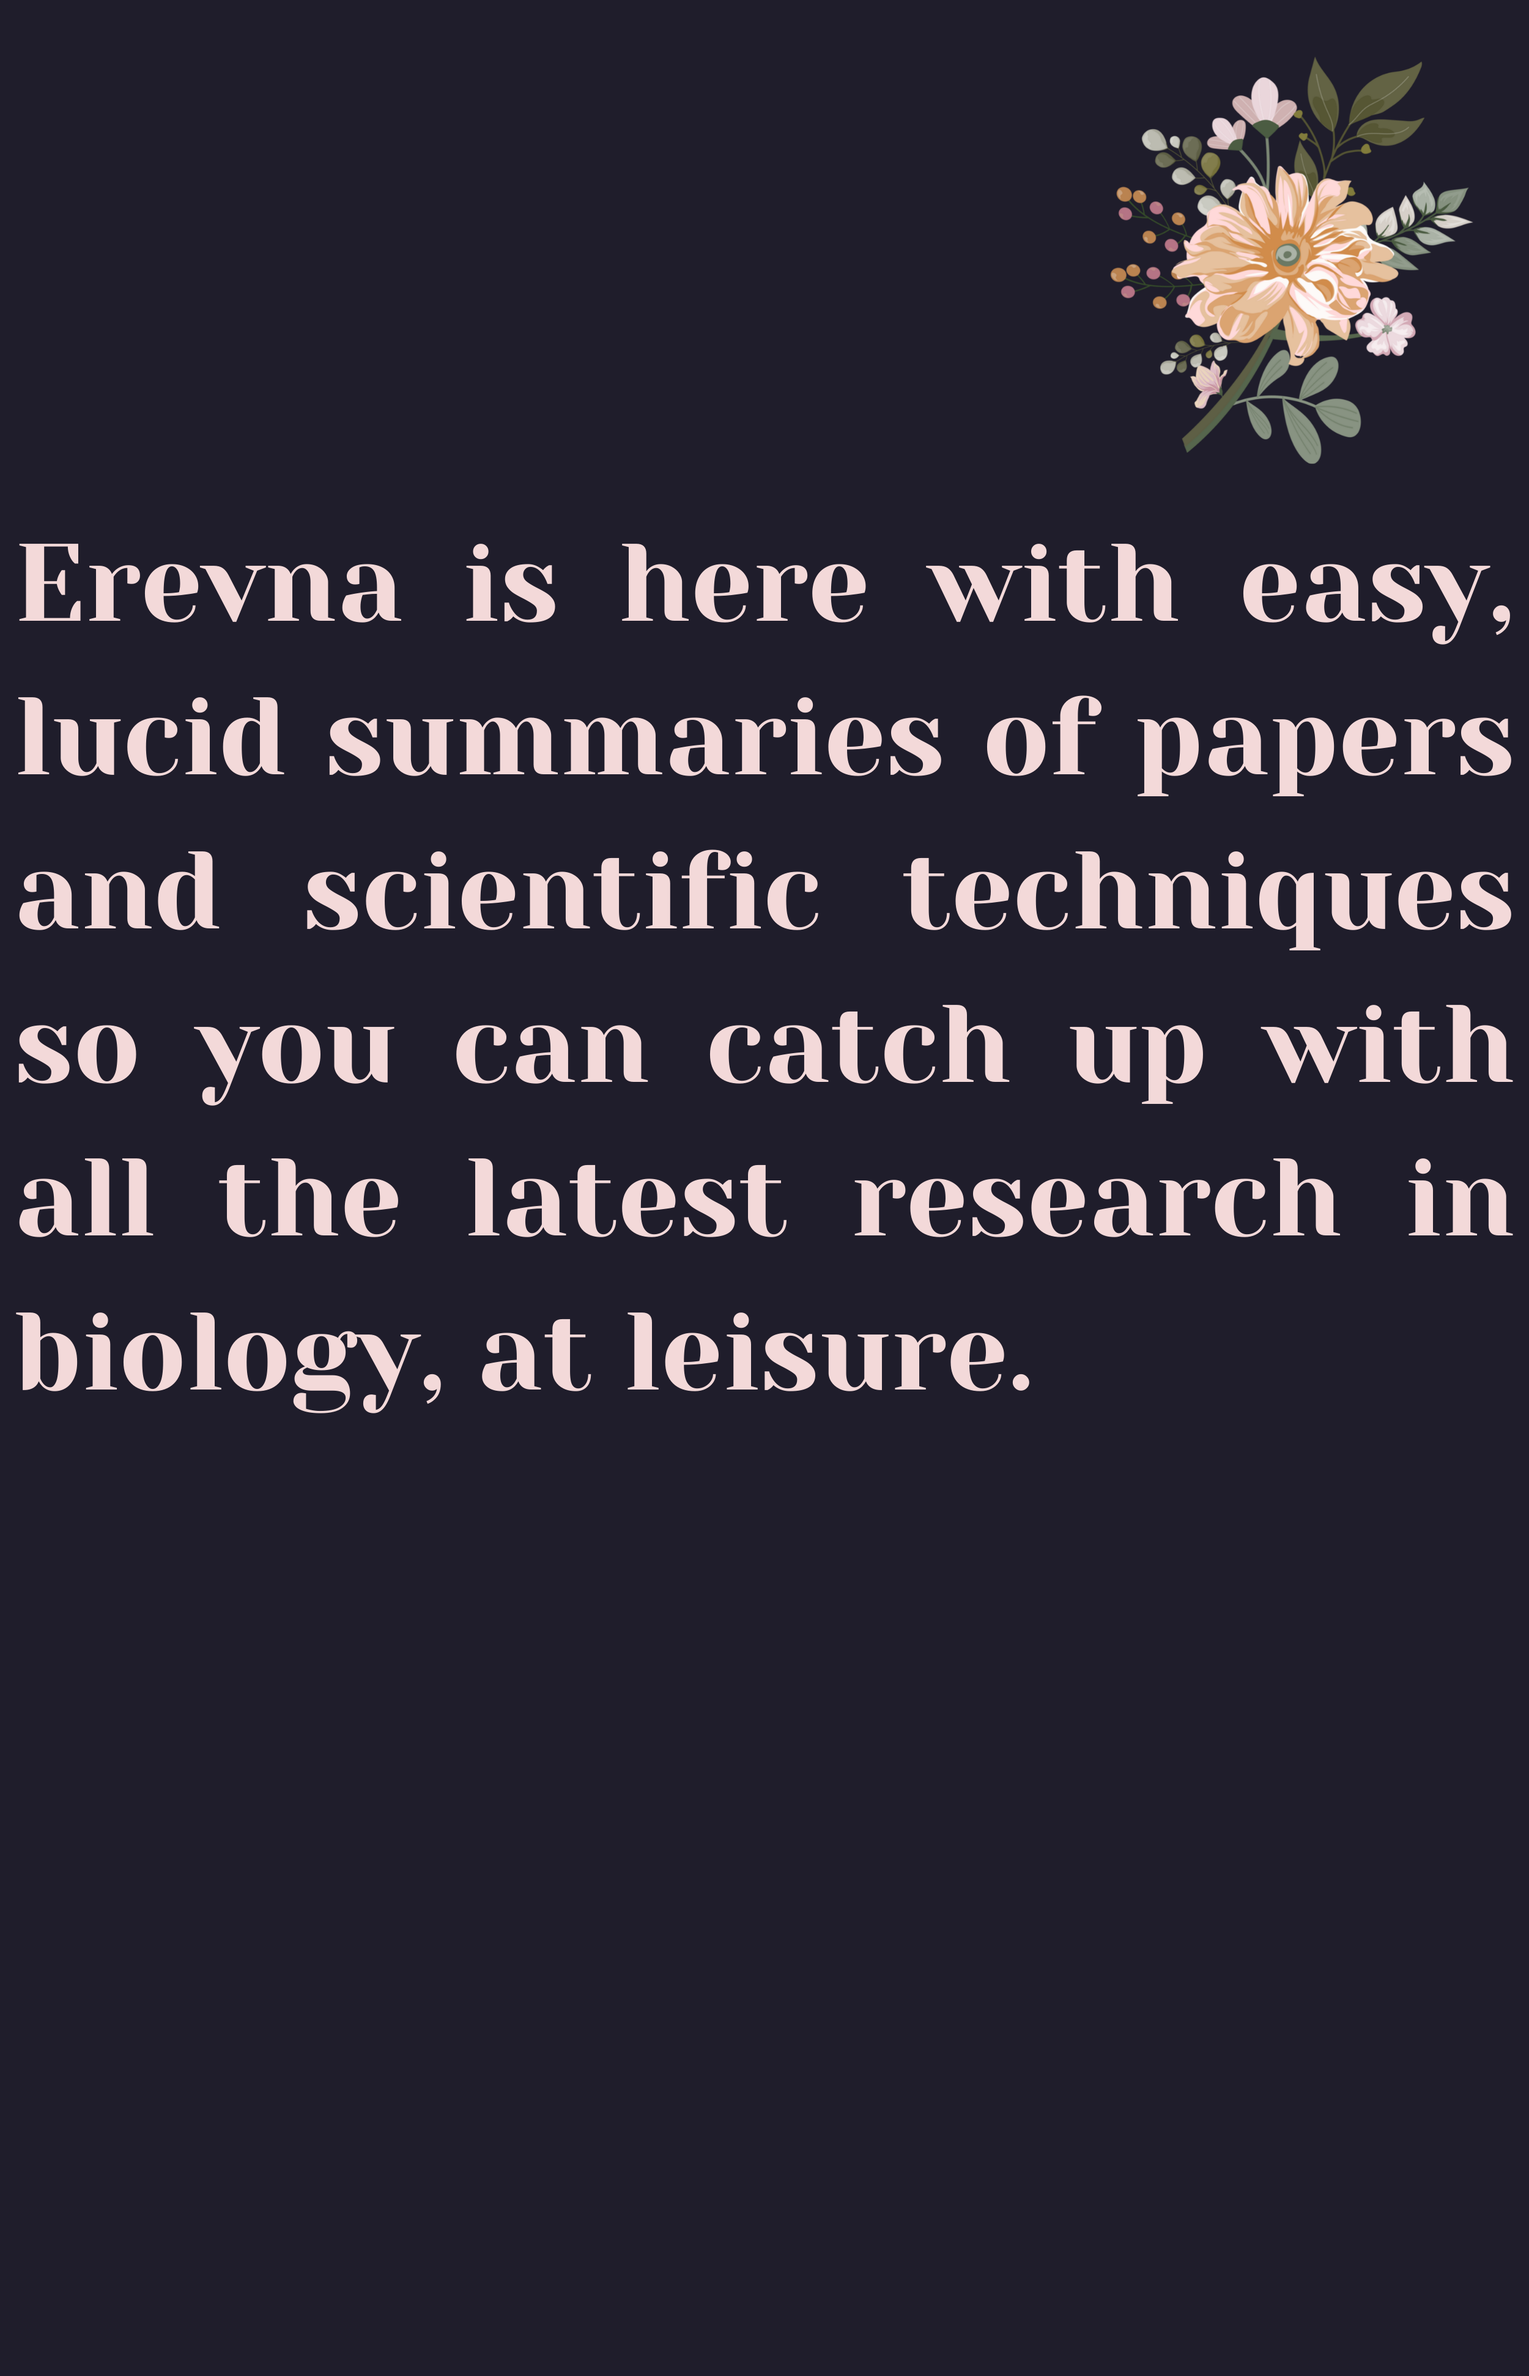
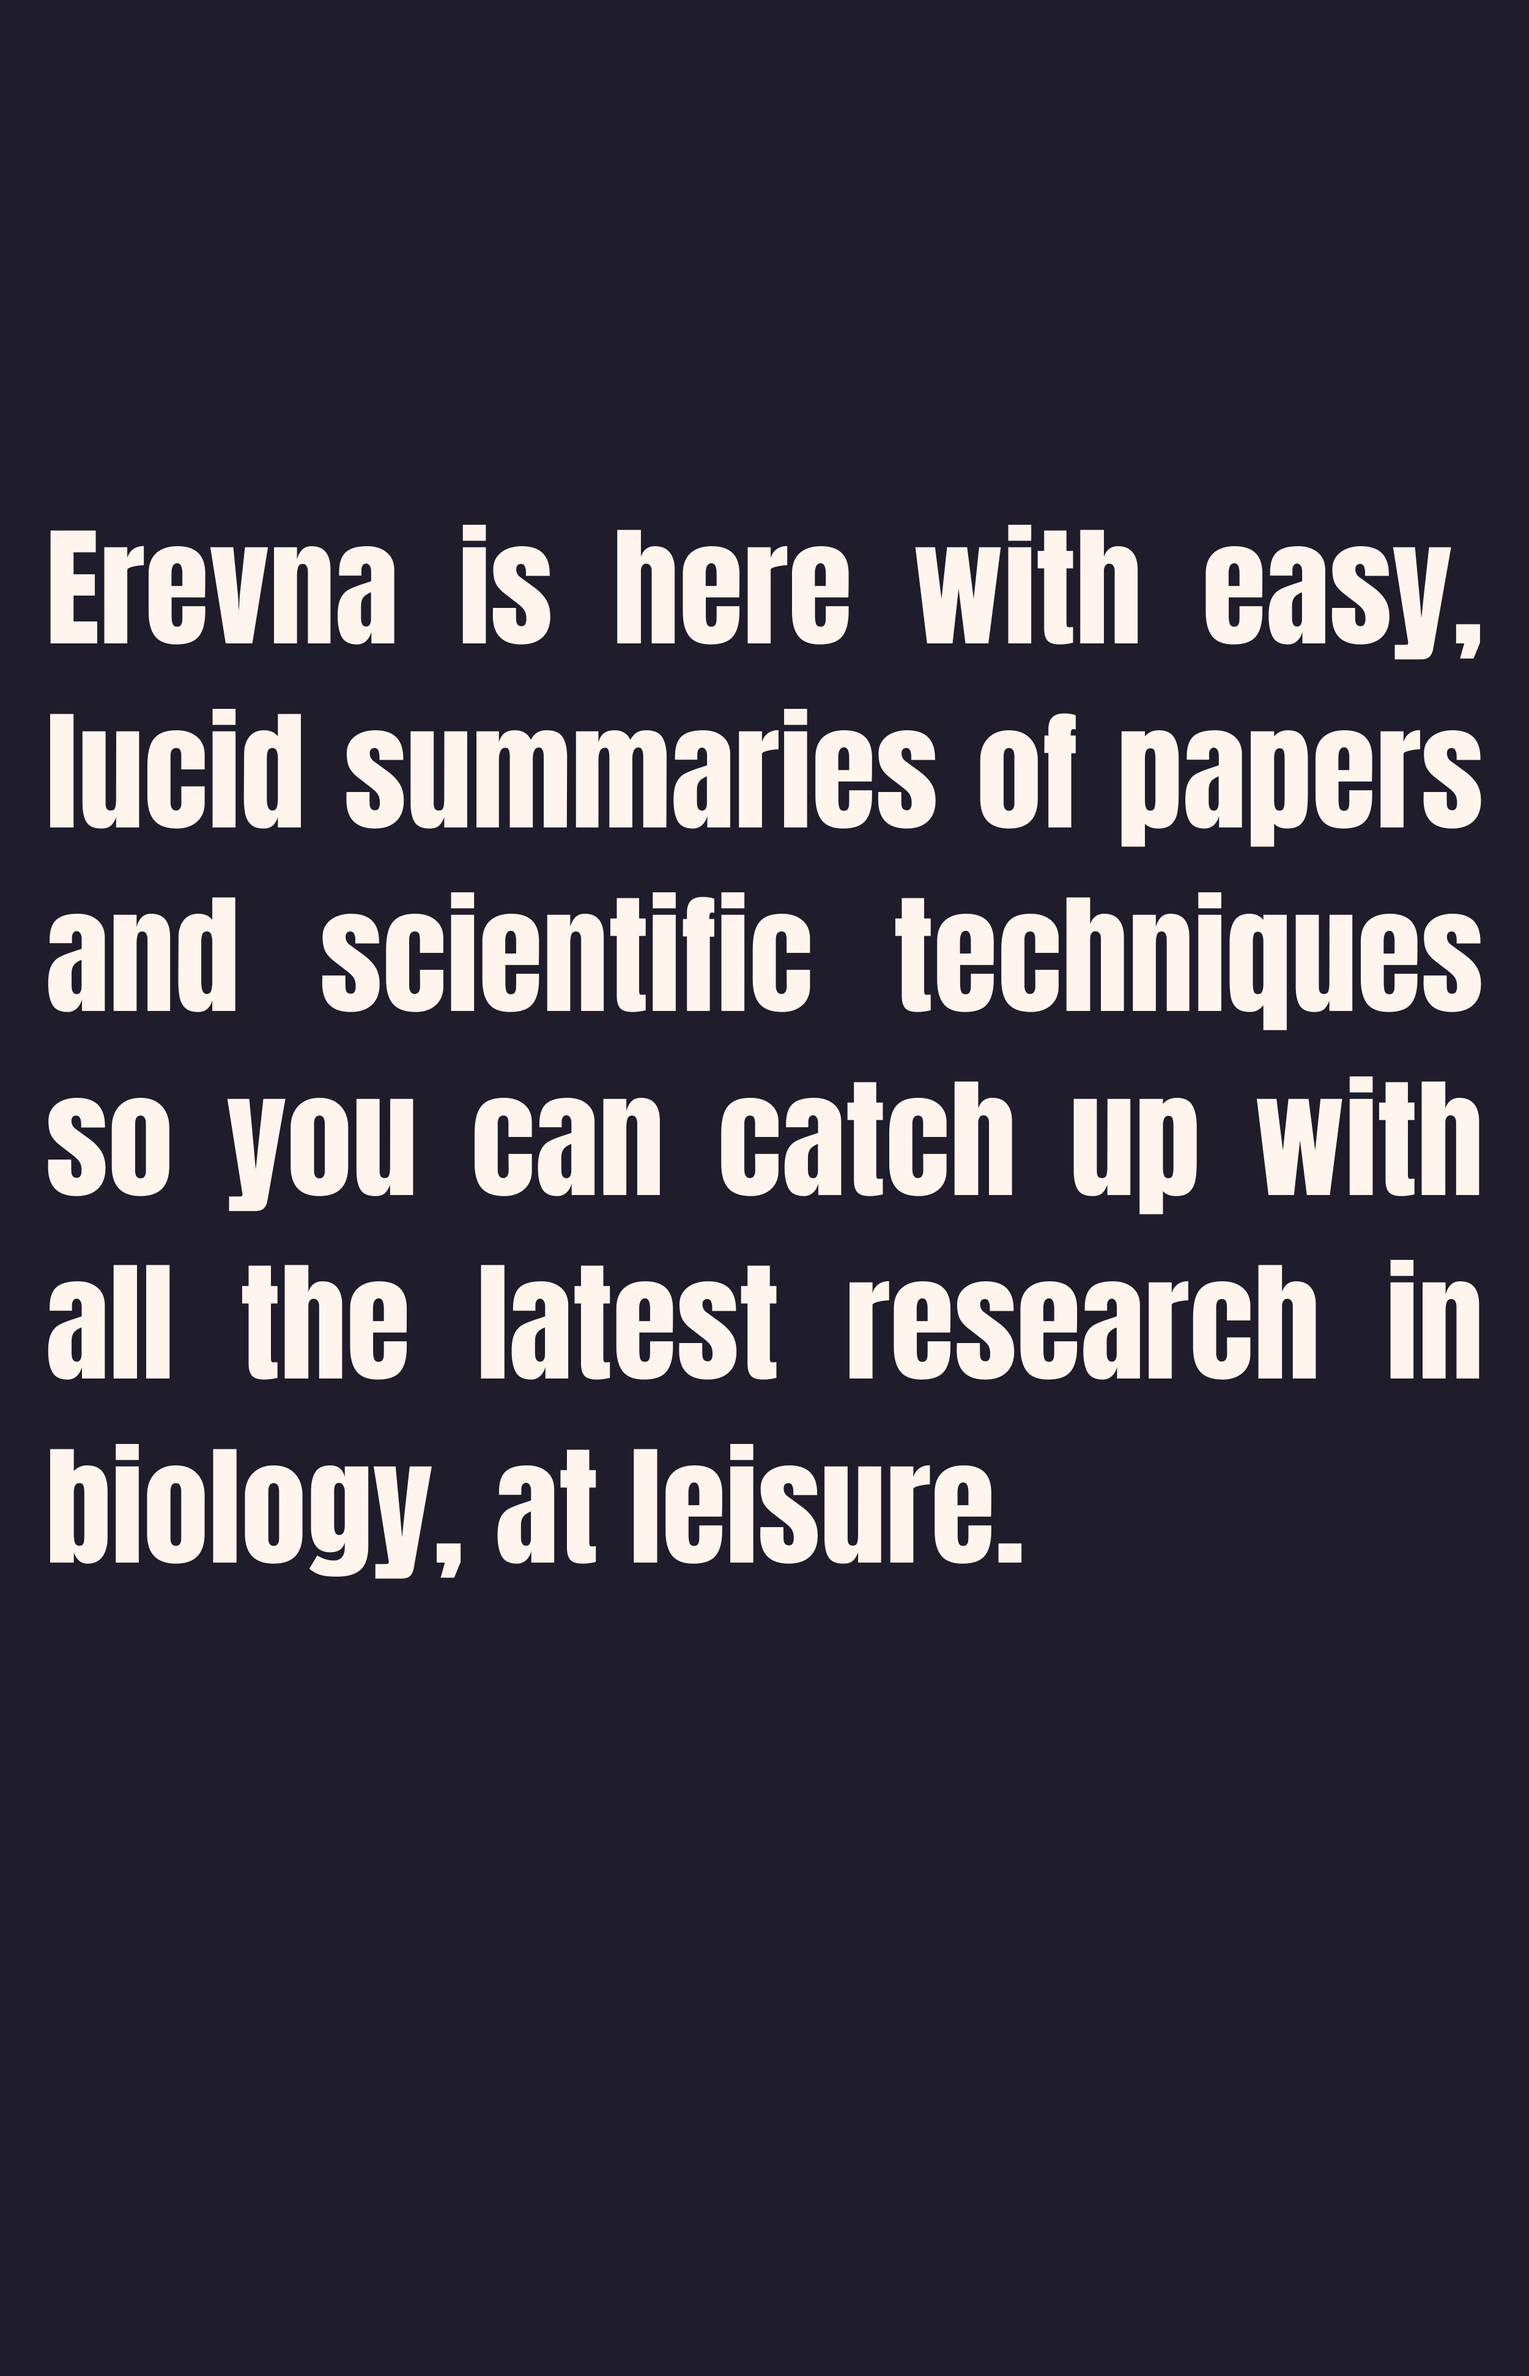
description images

Changed region(s): [[0.0, 0.0311, 0.9984, 0.6852]]

diff --git a/blog-site1/Sciensation.html b/blog-site1/Sciensation.html
@@ -44,7 +44,7 @@
   <div class="sidebar">
    <span class="logo">S</span>
    <!-- <div class="main-header anim" style="--delay: 0s">Series</div> -->
-   <div class="logo-expand" >SERIES</div> 
+   <div class="logo-expand" >SERIES</div>
    <div class="side-wrapper">
     <!-- <div class="side-title">MENU</div> -->
    <div class="side-menu">
@@ -144,13 +144,13 @@
 
     <div class="main-blog anim" style="--delay: .1s">
       <div class="main-blog__author">
-      </div> 
-     </div> 
- 
- 
-     <div class="main-blog anim" style="--delay: .2s">
-      <div class="main-blog__title"><p style= "font-size:15.6px">Biology has a a myriad of beautiful and intriguing facets. Probing some of the bizzare phenomena known to man and the quirks of the seemingly mundane, mosaic weaves an intriguing tapestry.</p></div>
+      </div>
      </div>
+
+
+     <div class="main-blog anim" style="--delay: .2s">
+       <div class="main-blog__title"><img src = "../blog-site1/sciensations_desc.png"></div>
+       </div>
       <!-- weekly changes--->
 
    </div>

diff --git a/blog-site1/Sports_Science.html b/blog-site1/Sports_Science.html
@@ -44,7 +44,7 @@
   <div class="sidebar">
    <span class="logo">S</span>
    <!-- <div class="main-header anim" style="--delay: 0s">Series</div> -->
-   <div class="logo-expand" >SERIES</div> 
+   <div class="logo-expand" >SERIES</div>
    <div class="side-wrapper">
     <!-- <div class="side-title">MENU</div> -->
    <div class="side-menu">
@@ -144,12 +144,12 @@
 
     <div class="main-blog anim" style="--delay: .1s">
       <div class="main-blog__author">
-      </div> 
-     </div> 
- 
- 
+      </div>
+     </div>
+
+
      <div class="main-blog anim" style="--delay: .2s">
-      <div class="main-blog__title"><p style= "font-size:15.6px">Biology has a a myriad of beautiful and intriguing facets. Probing some of the bizzare phenomena known to man and the quirks of the seemingly mundane, mosaic weaves an intriguing tapestry.</p></div>
+       <div class="main-blog__title"><img src = "../blog-site1/sportsscience.png"></div>
      </div>
       <!-- weekly changes--->
 

diff --git a/blog-site1/Anthropoid.html b/blog-site1/Anthropoid.html
@@ -44,7 +44,7 @@
   <div class="sidebar">
    <span class="logo">S</span>
    <!-- <div class="main-header anim" style="--delay: 0s">Series</div> -->
-   <div class="logo-expand" >SERIES</div> 
+   <div class="logo-expand" >SERIES</div>
    <div class="side-wrapper">
     <!-- <div class="side-title">MENU</div> -->
    <div class="side-menu">
@@ -145,12 +145,13 @@
 
     <div class="main-blog anim" style="--delay: .1s">
       <div class="main-blog__author">
-      </div> 
-     </div> 
- 
- 
+      </div>
+     </div>
+
+
      <div class="main-blog anim" style="--delay: .2s">
-      <div class="main-blog__title"><p style= "font-size:15.6px">Biology has a a myriad of beautiful and intriguing facets. Probing some of the bizzare phenomena known to man and the quirks of the seemingly mundane, mosaic weaves an intriguing tapestry.</p></div>
+       <div class="main-blog__title"><img src = "../blog-site1/anthropoid.png"></div>
+
      </div>
       <!-- weekly changes--->
 

diff --git a/blog-site1/Mosaic.html b/blog-site1/Mosaic.html
@@ -44,7 +44,7 @@
   <div class="sidebar">
    <span class="logo">S</span>
    <!-- <div class="main-header anim" style="--delay: 0s">Series</div> -->
-   <div class="logo-expand" >SERIES</div> 
+   <div class="logo-expand" >SERIES</div>
    <div class="side-wrapper">
     <!-- <div class="side-title">MENU</div> -->
    <div class="side-menu">
@@ -143,8 +143,8 @@
 
     <div class="main-blog anim" style="--delay: .1s">
      <div class="main-blog__author">
-     </div> 
-    </div> 
+     </div>
+    </div>
 
 
     <div class="main-blog anim" style="--delay: .2s">

diff --git a/blog-site1/Dark_Biology.html b/blog-site1/Dark_Biology.html
@@ -149,7 +149,8 @@
 
 
      <div class="main-blog anim" style="--delay: .2s">
-      <div class="main-blog__title"><p style= "font-size:15.6px">Biology has a a myriad of beautiful and intriguing facets. Probing some of the bizzare phenomena known to man and the quirks of the seemingly mundane, mosaic weaves an intriguing tapestry.</p></div>
+       <div class="main-blog__title"><img src = "../blog-site1/darkbio.png"></div>
+
      </div>
       <!-- weekly changes--->
 

diff --git a/blog-site1/Anekdota.html b/blog-site1/Anekdota.html
@@ -150,8 +150,8 @@
 
 
     <div class="main-blog anim" style="--delay: .2s">
-     <div class="main-blog__title"><h3 style= "font-size:15.6px">The path to scientific discoveries is often abound with amusing tales of serendipity, disaster and accident. Anekdota delves into those little anecdotes.</h3></div>
-    </div>
+      <div class="main-blog__title"><img src = "../blog-site1/anekdota.png"></div>
+      </div>
      <!-- weekly changes--->
 
    </div>

diff --git a/index.html b/index.html
@@ -47,7 +47,7 @@
         <div class="collapse navbar-collapse" id="navbarSupportedContent">
           <ul class="navbar-nav ml-auto">
             <li class="nav-item nav-item-style" title="Blogs">
-              <a class="nav-link" href="blog-site/blog.html">
+              <a class="nav-link" href="blog-site1/Erevna.html">
                 <h6><em>SERIES</em></h6>
               </a>
             </li>
